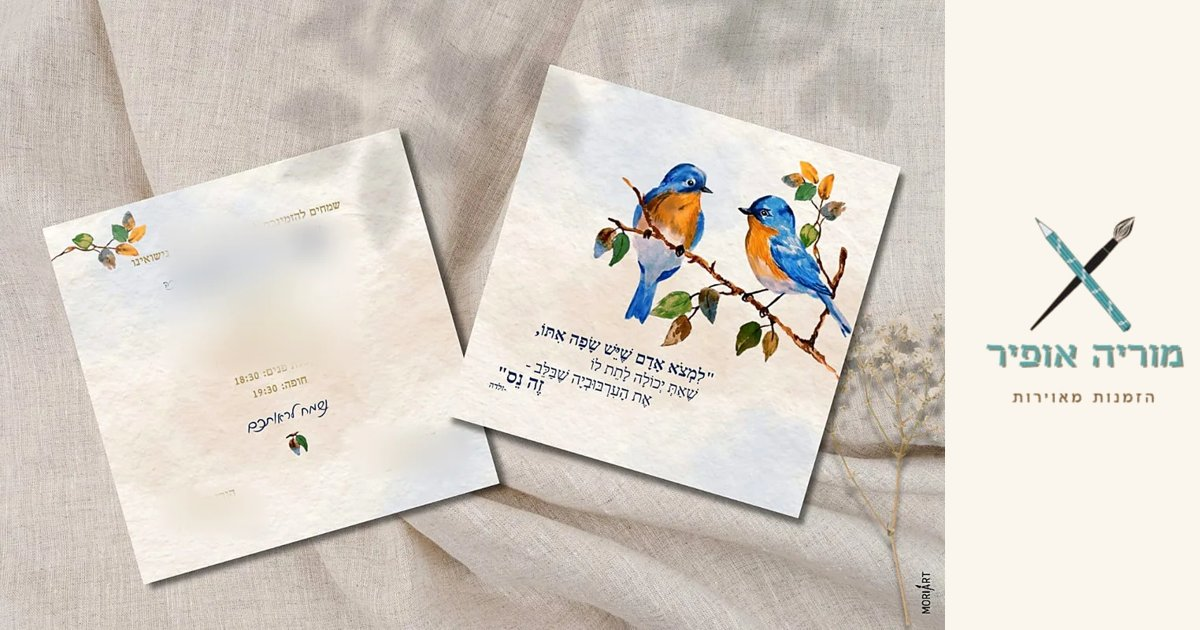
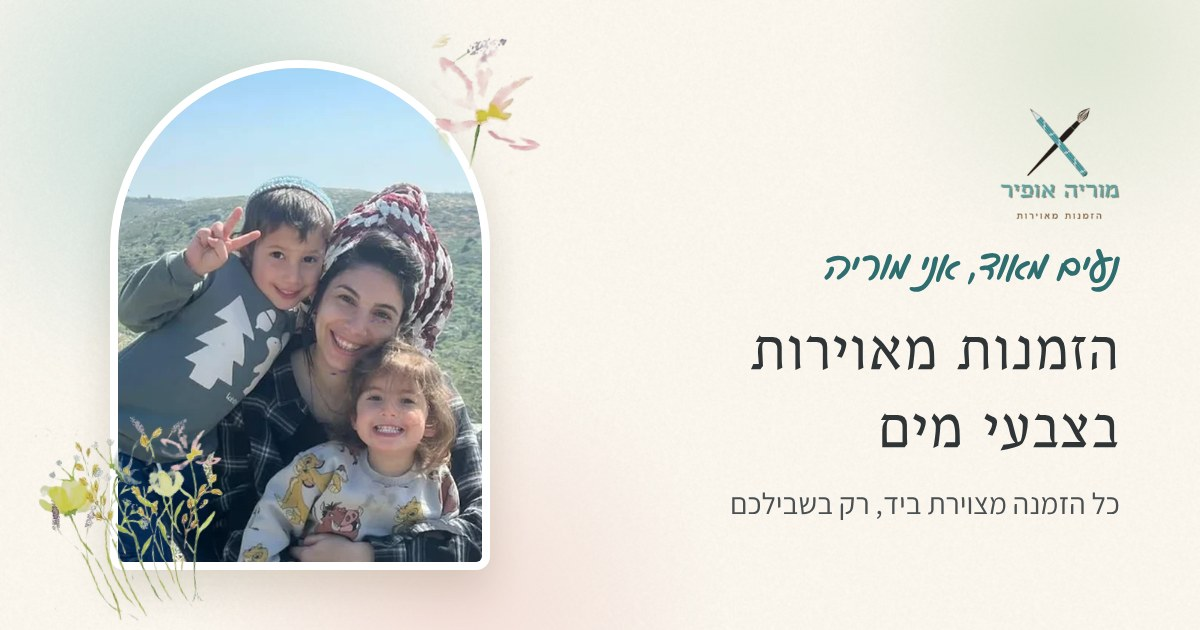
תיקוני בעל האתר: באנר הנחה לחיץ, כפתור נגישות נגרר, שובר מתנה, כל העבודות בקרוסלה, תמונת קישור חדשה
Claude-Session: https://claude.ai/code/session_01Uc4AaHEGZwQr4d6t89ciUN

diff --git a/src/assets/js/a11y.js b/src/assets/js/a11y.js
@@ -25,9 +25,37 @@
   const open = (yes) => {
     panel.hidden = !yes;
     btn.setAttribute("aria-expanded", String(yes));
-    if (yes) panel.querySelector("button").focus();
+    if (yes) { if (btn.style.top) place(parseFloat(btn.style.top)); panel.querySelector("button").focus(); }
   };
-  btn.addEventListener("click", () => open(panel.hidden));
+  btn.addEventListener("click", (e) => { if (dragged) { dragged = false; e.preventDefault(); return; } open(panel.hidden); });
+
+  // אפשר לגרור את הכפתור למעלה ולמטה לאורך הקצה. המיקום נשמר במכשיר
+  const POS = "a11yPos";
+  const place = (y) => {
+    const half = btn.offsetHeight / 2 + 8;
+    const top = Math.max(half, Math.min(window.innerHeight - half, y));
+    btn.style.top = top + "px";
+    panel.style.top = Math.max(16 + panel.offsetHeight / 2, Math.min(window.innerHeight - 16 - panel.offsetHeight / 2, top)) + "px";
+    return top;
+  };
+  let dragged = false, startY = 0, moving = false;
+  try { const f = parseFloat(localStorage.getItem(POS)); if (f > 0 && f < 1) place(f * window.innerHeight); } catch (e) {}
+  btn.addEventListener("pointerdown", (e) => { startY = e.clientY; moving = true; dragged = false; });
+  window.addEventListener("pointermove", (e) => {
+    if (!moving) return;
+    if (!dragged && Math.abs(e.clientY - startY) < 8) return;
+    if (!dragged) { dragged = true; btn.classList.add("dragging"); try { btn.setPointerCapture(e.pointerId); } catch (err) {} }
+    place(e.clientY);
+  });
+  const drop = () => {
+    if (!moving) return;
+    moving = false;
+    btn.classList.remove("dragging");
+    if (dragged) { try { localStorage.setItem(POS, String(parseFloat(btn.style.top) / window.innerHeight)); } catch (e) {} }
+  };
+  window.addEventListener("pointerup", drop);
+  window.addEventListener("pointercancel", drop);
+  window.addEventListener("resize", () => { if (btn.style.top) { try { place(parseFloat(localStorage.getItem(POS)) * window.innerHeight); } catch (e) {} } });
   panel.querySelector(".a11y-close").addEventListener("click", () => { open(false); btn.focus(); });
   document.addEventListener("keydown", (e) => { if (e.key === "Escape" && !panel.hidden) { open(false); btn.focus(); } });
   document.addEventListener("pointerdown", (e) => { if (!panel.hidden && !panel.contains(e.target) && !btn.contains(e.target)) open(false); });

diff --git a/src/assets/css/a11y.css b/src/assets/css/a11y.css
@@ -71,9 +71,14 @@ html.a11y-still::view-transition-group(*), html.a11y-still::view-transition-old(
 
 /* במובייל: לשונית צרה בקצה המסך, כדי שלא תסתיר סופי שורות */
 @media (max-width: 699px) {
-  .a11y-btn { width: 26px; height: 50px; padding: 0; border-radius: 12px 0 0 12px; top: 58%; opacity: 0.92; }
-  .a11y-btn svg { width: 20px; height: 20px; }
-  .a11y-btn:hover, .a11y-btn[aria-expanded="true"] { width: 30px; opacity: 1; }
+  .a11y-btn { width: 32px; height: 54px; padding: 0; border-radius: 14px 0 0 14px; top: 58%; }
+  .a11y-btn svg { width: 22px; height: 22px; }
+  .a11y-btn:hover, .a11y-btn[aria-expanded="true"] { width: 36px; }
   .a11y-btn.is-active::after { top: 4px; left: 3px; width: 7px; height: 7px; }
   .a11y-panel { right: calc(36px + env(safe-area-inset-right, 0px)); width: min(300px, calc(100vw - 52px)); }
 }
+
+/* גרירה: הכפתור זז למעלה ולמטה לאורך הקצה, ובולט קצת יותר */
+.a11y-btn { touch-action: none; box-shadow: 0 4px 16px rgba(30, 60, 60, 0.32), 0 0 0 2px rgba(255, 255, 255, 0.85); }
+.a11y-btn.dragging { cursor: grabbing; transition: none; width: 52px; box-shadow: 0 8px 22px rgba(30, 60, 60, 0.4), 0 0 0 2px rgba(255, 255, 255, 0.9); }
+@media (max-width: 699px) { .a11y-btn.dragging { width: 38px; } }

diff --git a/src/assets/css/extras.css b/src/assets/css/extras.css
@@ -195,3 +195,10 @@ a.chip { display: inline-flex; align-items: center; text-decoration: none; }
 .shot-dialog::backdrop { background: rgba(30, 30, 30, 0.75); }
 .shot-dialog img { display: block; width: 100%; height: auto; border-radius: 12px; }
 .shot-dialog .close { position: sticky; top: 8px; float: left; margin: 8px; width: 44px; height: 44px; border: 0; border-radius: 50%; background: var(--white); color: var(--ink); font-size: 26px; cursor: pointer; }
+
+/* פס הקופון: כולו לחיץ (וואטסאפ עם הקוד), והטקסט באמצע המסך */
+.coupon-bar { position: relative; padding-inline: 48px; }
+.coupon-link { flex: 1 1 auto; color: inherit; text-decoration: none; display: block; padding: 4px 0; }
+.coupon-link:hover .coupon-cta { text-decoration: underline; }
+.coupon-cta { font-weight: 600; white-space: nowrap; margin-inline-start: 4px; }
+.coupon-bar .coupon-close { position: absolute; inset-inline-end: 4px; top: 50%; transform: translateY(-50%); }
